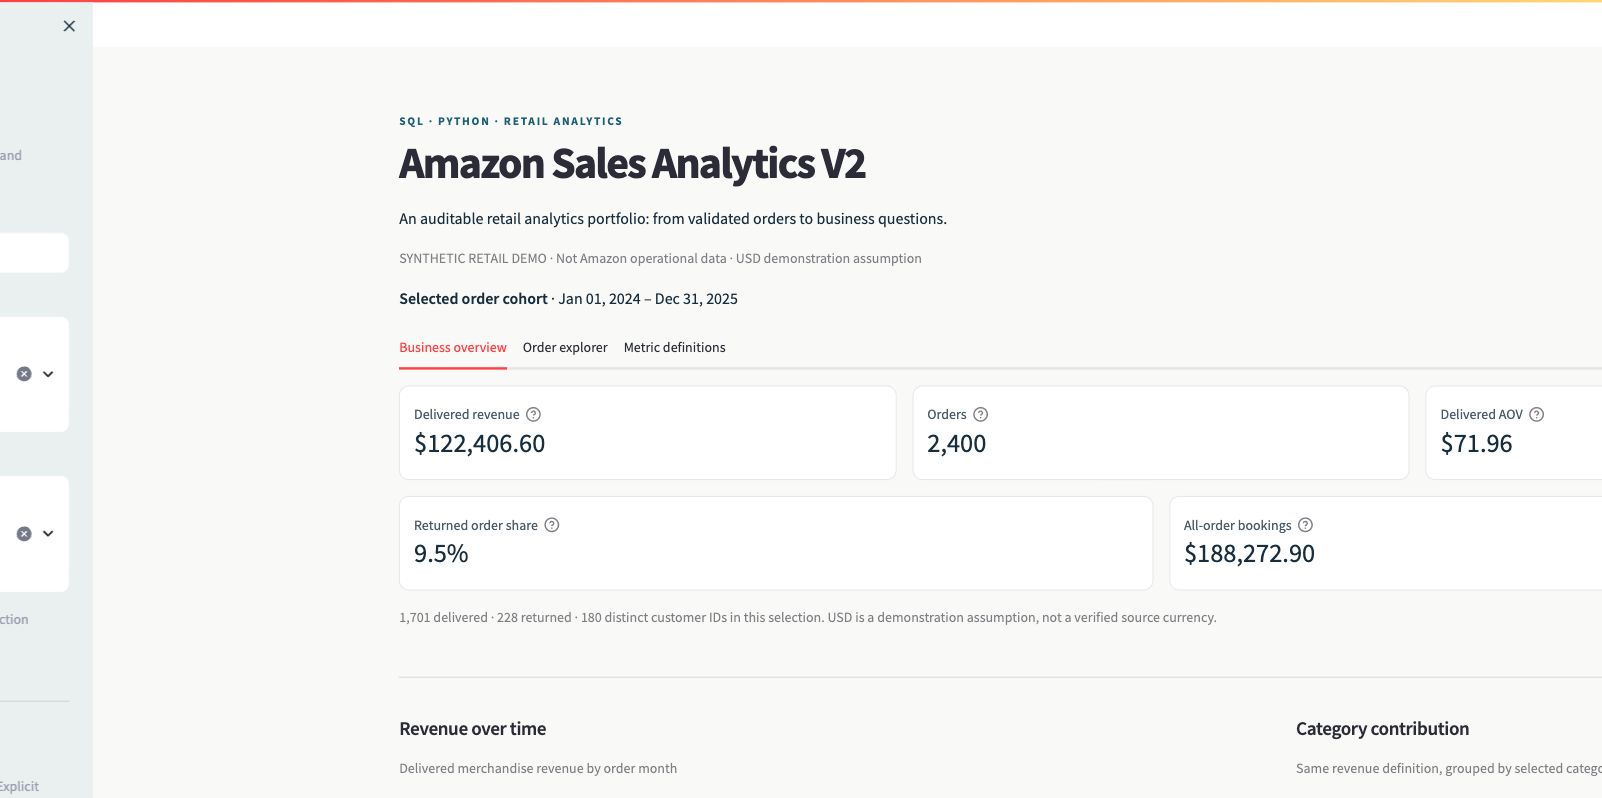
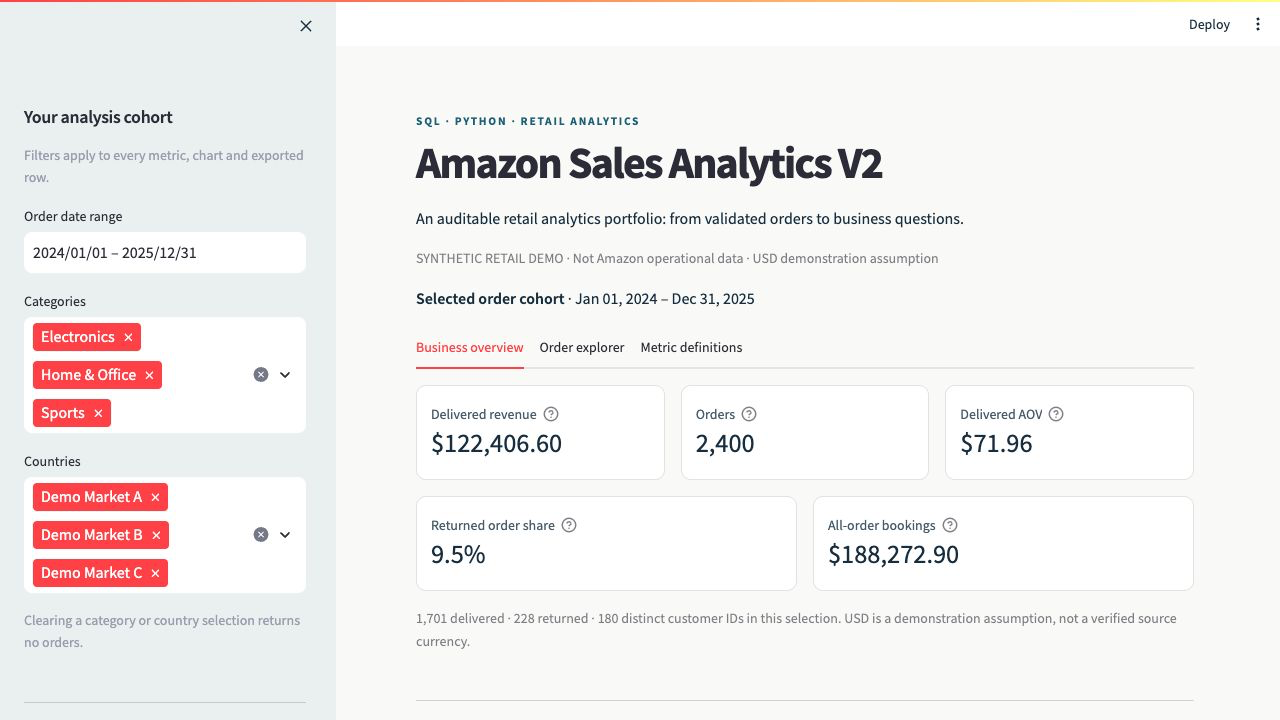
docs: retain review trail and verified delivery evidence

diff --git a/FINAL_SUMMARY.md b/FINAL_SUMMARY.md
@@ -1,0 +1,51 @@
+# Final summary — retail analytics portfolio V2
+
+Date: 2026-10-16 (America/Vancouver).
+
+## Request and delivery
+
+Develop the existing Amazon Sales Analytics project into an honest SQL + Python + BI-ready job portfolio, retain all processing source for owner review, verify metrics/runtime/tests, and update the personal-site showcase only after acceptance.
+
+| Task | Status | Revisions / evidence |
+|---|---|---|
+| TASK-1: Source/grain audit | PASS | Original CSV unchanged; provenance/currency/license unverified; dimension conflicts demonstrated |
+| TASK-2: Data + SQL pipeline | PASS | Immutable source snapshot; duplicate/conflict validation; atomic DB publish; 15 targeted tests |
+| TASK-3: Streamlit dashboard | PASS | Shared SQL filters; 8 AppTests; desktop/narrow real-browser checks; responsive revision |
+| TASK-4: Reviewable portfolio package | PASS | Generator, SQL, notebook, report/export code, metric contract, source trace, 13 export tests + health test; 37 total PASS locally and CI |
+| TASK-5: Branch/PR + conditional website entry | PASS for reviewable delivery | Analytics PR #1 and website PR #6; website 17 checks PASS; neither main branch merged or deployed |
+| Git identity audit/correction | PASS | Hanyu Dai author/committer linked to HY-D1; wrong global/local default removed; single implementation commit reauthored with identical tree and exact-head lease |
+
+## Deliverables
+
+- [Analytics PR #1](https://github.com/HY-D1/amazon-sales-analytics/pull/1).
+- [Website PR #6](https://github.com/HY-D1/HY-D1.github.io/pull/6).
+- `docs/PROCESSING_TRACE.md`: every retained Python/SQL step, inputs, outputs, commands and validation policy.
+- `docs/DATA_AUDIT.md`: reproducible source evidence; `data/README.md`: source/grain contract.
+- `src/data_loader.py`, `sql/`, `scripts/generate_demo_data.py`: canonical data and metrics.
+- `dashboard.py`, notebook, actual screenshots and generated English brief/metrics.
+- `src/reporting.py`, `bi/README.md`, `bi/measures.dax`: checked five-table BI export and explicit Windows validation boundary.
+- `tests/`, `docs/VERIFICATION.md`, `docs/CHANGELOG.md`, `docs/GIT_IDENTITY_AUDIT.md` and CI: evidence and recovery trail.
+
+## Key decisions
+
+1. Use independently generated synthetic data by default because the inherited data's source/license/currency and stable identities could not be established.
+2. Enforce one order/one product per row and reject conflicting order IDs because no line ID/allocation contract exists.
+3. Count only Delivered discounted merchandise as the named descriptive revenue metric; keep tax/shipping/all-status bookings separate.
+4. Provide verified BI-ready CSVs, relationships and draft DAX instead of a fabricated PBIX. Power BI Desktop is not available in this macOS workflow.
+5. Keep all processing code in Git; generated bulk CSV/DB/exports are reproducible and available locally/through CI artifacts.
+6. Present only verified capabilities on an isolated website branch. Public main/deployment remain unchanged for review.
+
+## Actual verification
+
+- Local: 37 tests PASS (12 dependency deprecation warnings); setup/build/check/pip-check/shell syntax/whitespace PASS.
+- Notebook: 7 executed code cells, zero error outputs.
+- Clean GitHub Ubuntu/Python 3.11 CI: 37 tests PASS, pipeline/export/health/notebook PASS, validated-analysis artifact uploaded. Exact run links in `docs/VERIFICATION.md`.
+- Website: 17 tests PASS, syntax/whitespace PASS; browser showed 8 projects, loaded actual screenshot and no overflow at checked 1280px width.
+- Default synthetic figures: 2,400 orders; delivered merchandise USD 122,406.60; bookings USD 188,272.90; delivered AOV USD 71.96; returned share 9.50%. These are demonstration arithmetic, not real Amazon performance.
+
+## Remaining limits
+
+- Power BI Desktop import, DAX execution, visual interactions, PBIX and Windows launcher remain unverified. Complete `bi/README.md` on supported Windows before claiming implemented Power BI reporting.
+- Legacy dataset provenance/license/currency remain unverified and excluded from V2 output. No general repository license selected.
+- No public Streamlit deployment or Pages update performed. Review/merge the two PRs through normal workflow; confirm Pages after merge.
+- Full mobile/assistive-technology audit of the new website entry and dependency modernization remain separate work.

diff --git a/docs/GIT_IDENTITY_AUDIT.md b/docs/GIT_IDENTITY_AUDIT.md
@@ -1,0 +1,37 @@
+# Git identity audit and correction
+
+Date: 2026-10-16. Requested by the owner after noticing an incorrect author on the first V2 commit.
+
+## Evidence and cause
+
+- The authenticated GitHub account was **HY-D1**, ID 93563405, with push permission.
+- The inherited global `user.name`/`user.email` entries in `~/.gitconfig` were `Hermes Agent` / `hermes@local.dev`. Neither repository had a local override, and no GIT_AUTHOR/GIT_COMMITTER environment override was set.
+- The initial commit `2a29a94db5a1edd6755852eeaf79979685e62a0d` consequently recorded that name/email for both author and committer. The GitHub API returned null linked accounts. The agent did not verify commit identity before creating it; this was an operational error.
+- The source or time of the earlier global configuration change is unverified. This audit does not establish that Hermes ran or changed the project.
+- GitHub associates command-line commits using the commit email, separately from authentication for pushing: [GitHub commit-email documentation](https://docs.github.com/en/account-and-profile/how-tos/email-preferences/setting-your-commit-email-address) and [attribution troubleshooting](https://docs.github.com/en/enterprise-cloud%40latest/pull-requests/how-tos/commit-changes/troubleshooting-commits) (checked 2026-10-16).
+
+## Authorized correction
+
+The owner instructed: use Hanyu Dai or HY-D1 and remove the other identity. Global Git identity and local overrides for both project repositories were set to:
+
+```text
+user.name = Hanyu Dai
+user.email = 93563405+HY-D1@users.noreply.github.com
+```
+
+The email was verified against an existing GitHub commit linked to HY-D1, not guessed from an unrelated account. It is GitHub's account-specific privacy address.
+
+The owner-authored portfolio branch was checked against its exact remote head before rewriting the single agent-created commit. A local recovery ref (`refs/backup/portfolio-v2-author-fix-20261016`) preserves the old commit. The replacement commit is `7b96a39e873165ebd236576b57846dff7eb03f04`; author and committer are Hanyu Dai and the GitHub API links both to **HY-D1**. Comparing the two commit trees produced no differences. Only that known branch head was updated with an explicit expected-SHA lease; main and existing source edits were preserved.
+
+This corrects branch history and future commits. The old SHA can remain accessible through GitHub's cached history, PR events or the previously shared URL; no deletion of unrelated collaborators' history or account data was performed.
+
+## Verification commands
+
+```bash
+git show --no-patch --format=fuller HEAD
+git config --show-origin --show-scope --get-regexp '^user\.(name|email)$'
+git log origin/main..HEAD --format='%h %an | %cn'
+gh api repos/HY-D1/amazon-sales-analytics/commits/7b96a39e873165ebd236576b57846dff7eb03f04 --jq '{author_name:.commit.author.name,committer_name:.commit.committer.name,linked_author:.author.login,linked_committer:.committer.login}'
+```
+
+Actual API result: author/committer name **Hanyu Dai**; linked author/committer **HY-D1**. Global and both repository-local values match. Future publication should verify identity before committing.

diff --git a/docs/VERIFICATION.md b/docs/VERIFICATION.md
@@ -51,3 +51,20 @@ The SQL + Python + Streamlit + BI-ready data-model demonstration meets its local
 Power BI Desktop, Power Query import, draft DAX and visual cross-filtering are **Unverified** on Windows; no PBIX exists. The Windows launcher is also unverified. No live public Streamlit deployment is claimed. Source/license/currency of the legacy CSV remain unverified and are excluded from V2 results.
 
 GitHub CI and pull-request URLs are recorded in delivery notes after remote checks complete. A CI configuration by itself is not a successful CI result.
+
+## Remote clean-environment CI evidence
+
+Implementation head: `2a29a94db5a1edd6755852eeaf79979685e62a0d`.
+
+- [PR workflow run 39004482247](https://github.com/HY-D1/amazon-sales-analytics/actions/runs/39004482247): **SUCCESS**, completed 2026-10-16 21:58 PDT. Ubuntu/Python 3.11 installed from requirements, generated data, built SQLite/exports, checked dependencies/source hash, ran **37 passed, 12 warnings in 4.98s**, executed the notebook, and uploaded `validated-analysis` (artifact ID 12090436250).
+- [Branch workflow run 39004461605](https://github.com/HY-D1/amazon-sales-analytics/actions/runs/39004461605): **SUCCESS** for the same implementation commit.
+- Both runs were inspected with `gh run view`; the PR log confirmed five exported tables, fact/SQL reconciliation, 37 passing tests and the executed notebook artifact.
+- Project PR: https://github.com/HY-D1/amazon-sales-analytics/pull/1. Open and mergeable; not merged. `origin/main` remains baseline `78d173fff0f87a4f891fc88d258e6ca523d62b85`.
+
+The committed processing code and the complete local/remote checks satisfy the gate for a factual personal-website project entry. A website branch/PR does not itself constitute a live Pages deployment.
+
+## Identity and screenshot corrections
+
+The owner requested removal of the incorrect inherited Git author. Implementation commit `2a29a94` was replaced by `7b96a39` with the identical tree; GitHub confirms author and committer now associate with HY-D1. See `docs/GIT_IDENTITY_AUDIT.md`.
+
+Screenshot-format verification found the capture API had returned JPEG bytes under `.png` filenames. Actual captures were re-encoded without visual edits using the retained `scripts/normalize_screenshots.sh` helper. File signatures now match PNG; final overview and analysis captures are 1280×720, explorer capture 1602×798, and narrow capture 661×865. Website tests verify the actual screenshot format and dimensions.

diff --git a/docs/PROCESSING_TRACE.md b/docs/PROCESSING_TRACE.md
@@ -57,3 +57,7 @@ All relative data paths resolve from repository root. Explicit CLI `--csv`/`--db
 - `docs/VERIFICATION.md`: commands actually run, observed outcomes and limitations. `docs/CHANGELOG.md`: root causes, changed contracts/files, revisions and remaining work.
 
 The generated manifest ties each BI CSV to its SHA-256 and expected SQL KPIs. The database metadata ties canonical rows to the input hash. Regenerating a file changes no checked-in business claim automatically: review the new report/metrics diff and update screenshots when deliberately changing the demo seed or generator.
+
+## Screenshot capture trace
+
+Actual local browser captures were saved for the desktop overview, analytical charts, order explorer and 661px narrow view. The capture API returned JPEG bytes despite `.png` filenames. `scripts/normalize_screenshots.sh` re-encodes those bytes as genuine PNG using macOS `sips`; it does not crop, resize, recolor or alter the chart contents. The website copy uses these exact normalized screenshot bytes, with tested intrinsic dimensions.

diff --git a/TASK_LIST.md b/TASK_LIST.md
@@ -54,6 +54,6 @@ Deliver an honest, reproducible SQL + Python + BI-ready retail analytics portfol
 - Notebook embeds fixed $91.8M revenue and recovery claims without status-aware revenue policy.
 
 ## Status
-TASK-1 ✅; TASK-2 ✅ (R1: immutable snapshot); TASK-3 ✅ (R1: narrow layout); TASK-4 ✅ (source labeling and export-path revisions verified). TASK-5 in progress after local acceptance gate PASS.
+TASK-1 ✅; TASK-2 ✅ (R1: immutable snapshot); TASK-3 ✅ (R1: narrow layout); TASK-4 ✅ (source labeling and export-path revisions verified). TASK-5 ✅: project PR #1 and website PR #6 delivered; main/deployment untouched. Final report: FINAL_SUMMARY.md.
 
 Integration check: all metric/source/export contracts match; 37 tests PASS; build/check/notebook/browser PASS. Power BI Desktop/DAX and Windows launcher explicitly Unverified and excluded from portfolio claims. Source trace, audit, metric contract, English results and real screenshots complete.

diff --git a/docs/CHANGELOG.md b/docs/CHANGELOG.md
@@ -36,3 +36,7 @@ Date: 2026-10-16. Branch: `portfolio-v2`. Original `main` remains untouched.
 ## Commit suggestion
 
 `feat: deliver auditable retail analytics portfolio v2` — keep the coherent metric/data contract and its tests together. Follow with delivery-only documentation when remote CI/PR results are available. Website presentation belongs in its separate repository/branch/PR after this gate passes.
+
+## Commit identity correction
+
+The first V2 commit inherited an incorrect global Git author. After the owner's explicit direction, global and both repository-local identities were corrected to Hanyu Dai / the verified HY-D1 privacy email. The single V2 implementation commit was reauthored with an expected-head lease and identical file tree. See `docs/GIT_IDENTITY_AUDIT.md` for evidence, recovery point and remote account verification.

diff --git a/README.md b/README.md
@@ -6,6 +6,8 @@
 
 ![Actual locally running Streamlit dashboard](docs/screenshots/dashboard-overview.png)
 
+![Actual SQL-backed charts and computed observations](docs/screenshots/dashboard-analysis.png)
+
 ## Start here
 
 Verified locally on macOS with Python 3.11; GitHub CI uses Ubuntu/Python 3.11.
